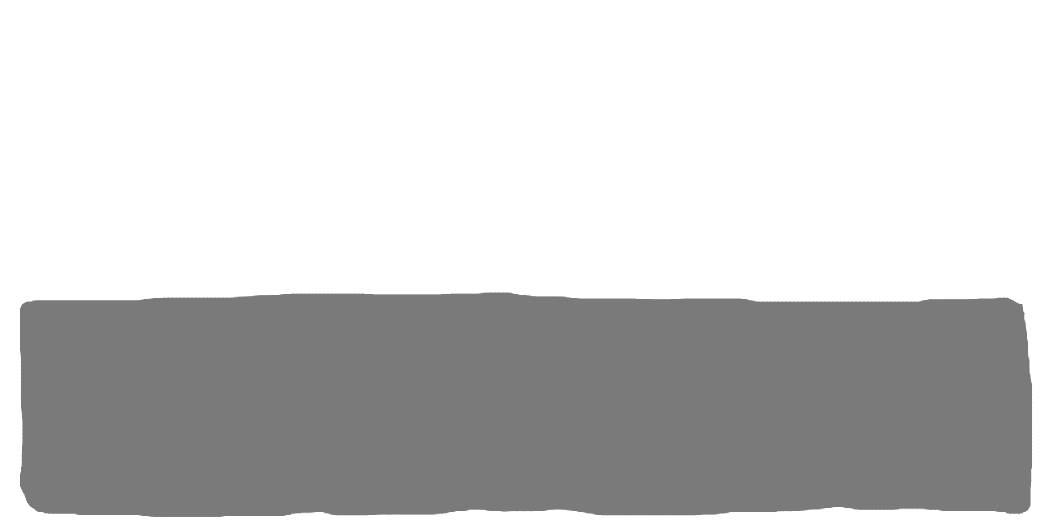
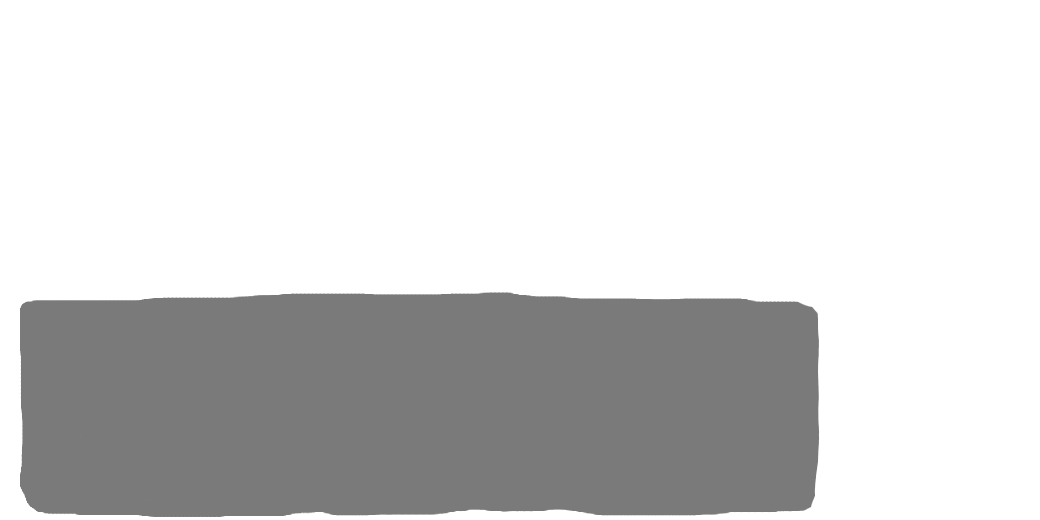
Fixed resolution typos in image names, implementing resolution button, currently causes crash when navigating to the settings menu.

Changed region(s): [[0.7692, 0.5538, 1.0, 1.0]]

diff --git a/src/vn.py b/src/vn.py
@@ -104,7 +104,7 @@ def update_txtbox(txt_box, res):
     txt_box = pygame.image.load(f'img_files/ui_textbox_{res[0]}x{res[1]}.png')
     return txt_box
 
-def play(res, music, sfx):
+def play(res, music, sfx, game_res):
     screen = pygame.display.set_mode(res)
     pygame.display.set_caption('Visual Novel')
     clock = pygame.time.Clock()
@@ -112,6 +112,7 @@ def play(res, music, sfx):
     font = pygame.font.SysFont('Comic Sans MS', int(0.0225*res[0]))
     page = 1
     time = 'day'
+    res = game_res
     print(f"The current page is {page}!") #debug
 
     background = pygame.image.load(f'img_files/bg_{time}_{res[0]}x{res[1]}.png')
@@ -143,7 +144,8 @@ def play(res, music, sfx):
                     sprite = update_page(page, sprite)
                     background = update_background(background, time, res)
                 else:
-                    main_menu(res, music, sfx)
+                    res = (1040, 520)
+                    main_menu(res, music, sfx, game_res)
             if event.type == pygame.KEYDOWN:
                 if event.key == pygame.K_f:
                     if res == (800, 400):
@@ -162,7 +164,7 @@ def play(res, music, sfx):
         pygame.display.update()
         clock.tick(60)
 
-def main_menu(res, music, sfx):
+def main_menu(res, music, sfx, game_res):
     screen = pygame.display.set_mode(res)
     pygame.display.set_caption('Visual Novel')
     clock = pygame.time.Clock()
@@ -193,14 +195,14 @@ def main_menu(res, music, sfx):
             if event.type == pygame.MOUSEBUTTONDOWN:
                 progress = start_button.check_for_input(pygame.mouse.get_pos(), sfx)
                 if progress:
-                    play(res, music, sfx)
+                    play(res, music, sfx, game_res)
                 close = quit_button.check_for_input(pygame.mouse.get_pos(), sfx)
                 if close:
                     pygame.quit()
                     exit()
                 options = options_button.check_for_input(pygame.mouse.get_pos(), sfx)
                 if options:
-                    settings_menu(res, music, sfx)
+                    settings_menu(res, music, sfx, game_res)
                     break
                     
         
@@ -214,7 +216,7 @@ def main_menu(res, music, sfx):
         pygame.display.update()
         clock.tick(60)
 
-def settings_menu(res, music, sfx):
+def settings_menu(res, music, sfx, game_res):
     screen = pygame.display.set_mode(res)
     pygame.display.set_caption('Visual Novel')
     clock = pygame.time.Clock()
@@ -231,12 +233,19 @@ def settings_menu(res, music, sfx):
     else:
         music_button_label = "off"
 
+    if game_res == (1040, 520):
+        game_res_label = "on"
+    else:
+        game_res_label = "off"
+
     return_button_surface = pygame.image.load(
         f"img_files/ui_return_unselected_{res[0]}x{res[1]}.png")
     music_button_surface = pygame.image.load(
         f"img_files/ui_music_{music_button_label}_unselected_{res[0]}x{res[1]}.png")
     sfx_button_surface = pygame.image.load(
         f"img_files/ui_sfx_{sfx_button_label}_unselected_{res[0]}x{res[1]}.png")
+    res_button_surface = pygame.image.load(
+        f"img_files/ui_resbutton_unselected_{game_res_label}_{res[0]}x{res[1]}.png")
 
     return_button = Button(name="return", img=return_button_surface, x=(res[0]*0.5), y=(res[1]*0.8),
                             resolution=(1040,520))
@@ -244,6 +253,8 @@ def settings_menu(res, music, sfx):
                           binary = 1, on_or_off=music_button_label, resolution=(1040,520))
     sfx_button = Button(name="sfx", img=sfx_button_surface, x=(res[0]*0.7), y=(res[1]*0.43),
                         binary = 1, on_or_off=sfx_button_label, resolution=(1040,520))
+    res_button = Button(name="res", img=res_button_surface, x=(res[0]*0.7), y=(res[1]*0.55),
+                        binary = 1, on_or_off = game_res_label, resolution=(1040,520))
 
     screen.fill('black')
     bg = pygame.image.load(f"img_files/ui_settings_{res[0]}x{res[1]}.png")
@@ -258,6 +269,7 @@ def settings_menu(res, music, sfx):
                 back = return_button.check_for_input(pygame.mouse.get_pos(), sfx)
                 music_toggle = music_button.check_for_input(pygame.mouse.get_pos(), sfx)
                 sfx_toggle = sfx_button.check_for_input(pygame.mouse.get_pos(), sfx)
+                res_toggle = res_button.check_for_input(pygame.mouse.get_pos(), sfx)
                 if back:
                     main_menu(res, music, sfx)
                     break
@@ -280,14 +292,23 @@ def settings_menu(res, music, sfx):
                         sfx = 0
                     else:
                         sfx = 1
+                if res_toggle:
+                    if res_button.on_or_off == "on":
+                        res_button.on_or_off = "off"
+                        game_res = (800, 400)
+                    else:
+                        res_button.on_or_off = "on"
+                        game_res = (1040, 520)
                 
         
         return_button.update(screen)
         music_button.update(screen)
         sfx_button.update(screen)
+        res_button.update(screen)
         return_button.change_appearance(pygame.mouse.get_pos(), res)
         music_button.change_appearance(pygame.mouse.get_pos(), res)
         sfx_button.change_appearance(pygame.mouse.get_pos(), res)
+        res_button.change_appearance(pygame.mouse.get_pos(), res)
         
         pygame.display.update()
         clock.tick(60)
@@ -299,13 +320,14 @@ def main():
     res = (1040, 520)
     music = 1
     sfx = 1
+    game_res = res
 
 
         #TODO: Add unique sprites for each page
         #TODO: Add settings menu
         #TODO: Add end screen
 
-    main_menu(res, music, sfx)
+    main_menu(res, music, sfx, game_res)
 
 
 if __name__ == "__main__":
